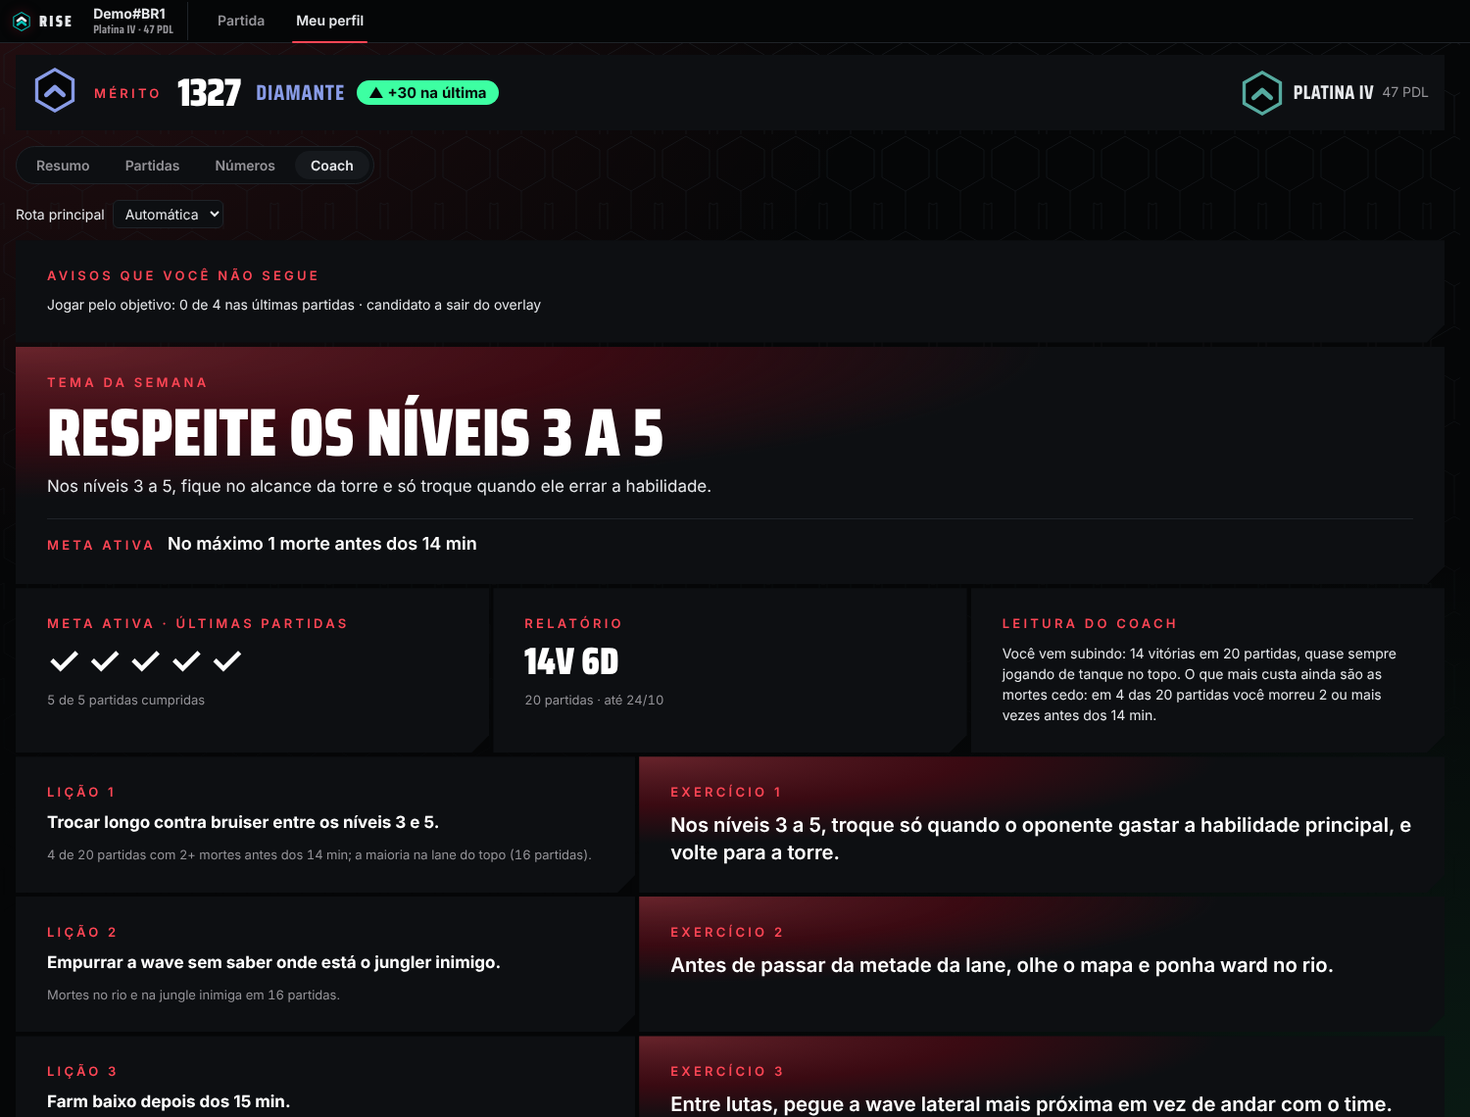
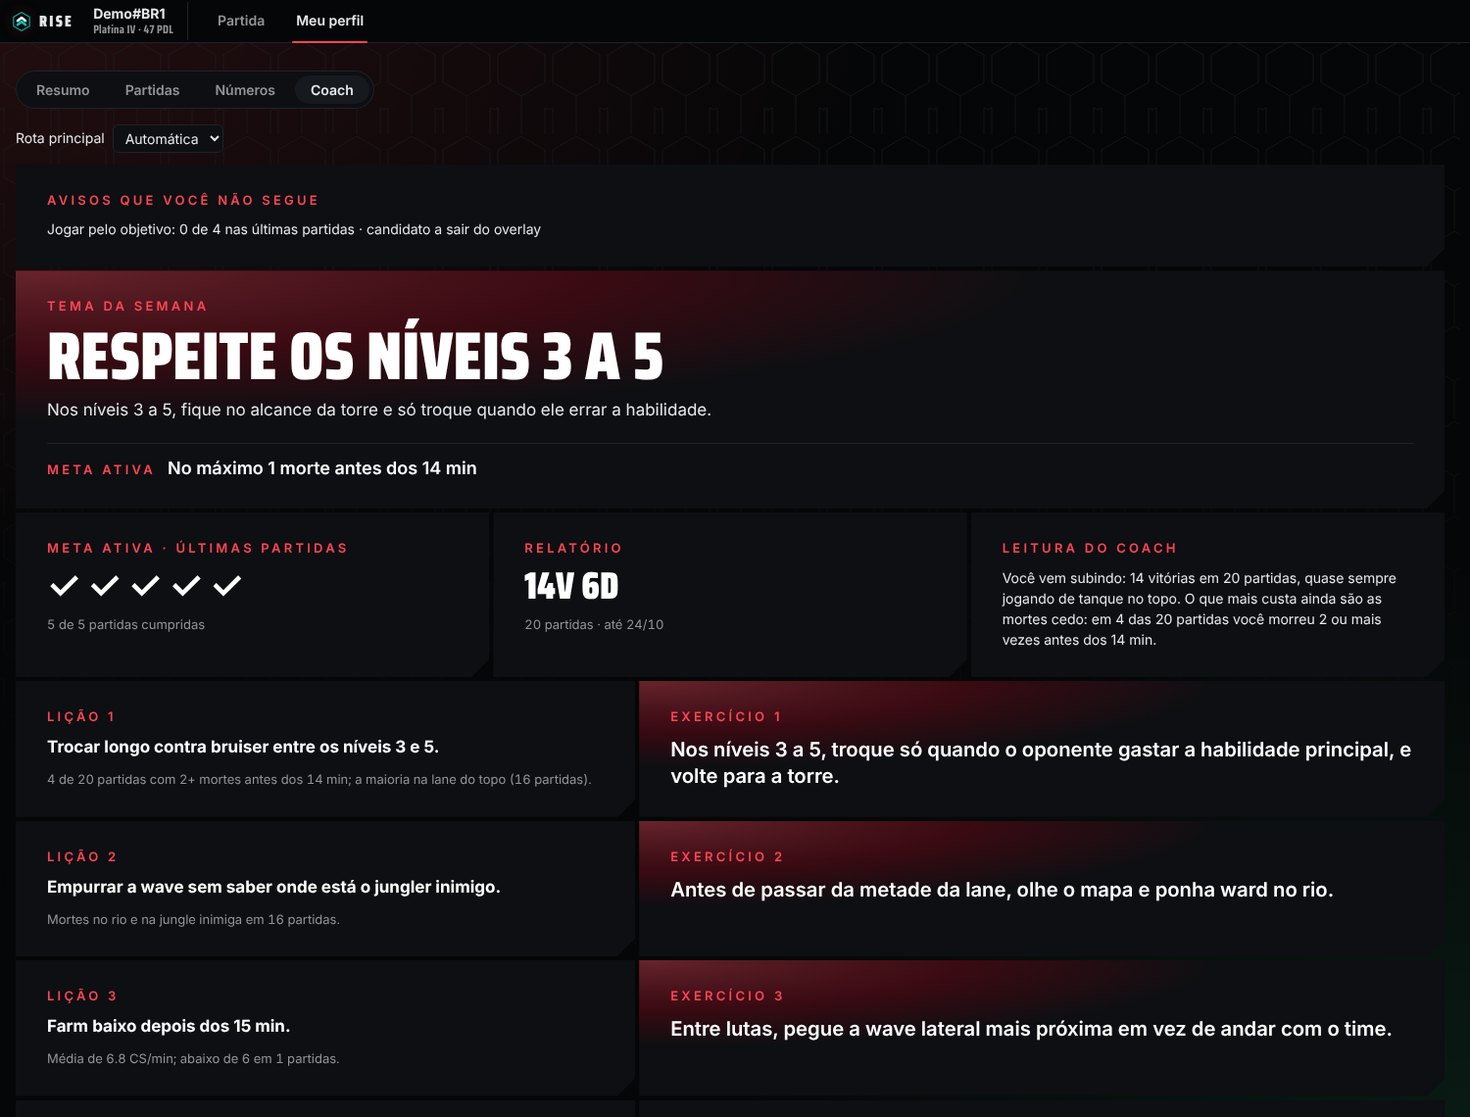
Página no formato pedido pela Riot: fluxo do usuário, Termos e Privacidade, APIs declaradas
- aviso de não endosso visível no topo e no rodapé (texto exato da política)
- terms.html e privacy.html, ligados no menu e no rodapé
- fluxo do usuário e seção de jogo limpo; endpoints do LCU declarados; account-v1 saiu (não é usado)
- prints sem Mérito/MMR (a política proíbe ranking alternativo); Partidas e Resumo fora

Claude-Session: https://claude.ai/code/session_01A9kCdaGhy6rGBCzv5NSGdF

diff --git a/index.html b/index.html
@@ -53,6 +53,10 @@
   .card ul { padding-left: 18px; }
   .card code { color: var(--text); background: var(--panel2); padding: 0 4px; font-size: 13px; }
 
+  nav { display: flex; gap: 20px; justify-content: flex-end; padding-top: 20px; font-size: 14px; }
+  nav a { color: var(--dim); text-decoration: none; } nav a:hover { color: var(--strong); }
+  .prose { max-width: 720px; padding-bottom: 32px; } .prose h2 { margin-top: 32px; } .prose p, .prose li { color: var(--text); }
+  .notice { margin-top: 28px; padding: 14px 18px; background: var(--panel); border-left: 2px solid var(--accent); color: var(--dim); font-size: 14px; max-width: 760px; }
   footer { padding: 32px 0 48px; border-top: 1px solid var(--line); color: var(--dim); font-size: 13px; }
 
   @media (max-width: 760px) {
@@ -63,38 +67,53 @@
 </head>
 <body>
 <div class="wrap">
+<nav><a href="./">Home</a><a href="terms.html">Terms of Service</a><a href="privacy.html">Privacy Policy</a></nav>
 
 <header>
   <div class="brand"><img src="img/rise.svg" alt=""><h1>Rise</h1></div>
-  <p class="tagline">A desktop companion that helps League of Legends players improve, game by game. It rewards <b>playing well</b>, not only winning.</p>
-  <div class="pills"><span class="pill">Champion select</span><span class="pill">In game</span><span class="pill">Post game</span><span class="pill">Personal coach</span></div>
+  <p class="tagline">A desktop companion for League of Legends that helps players <b>prepare each match</b> and <b>learn from their own games</b>.</p>
+  <div class="pills"><span class="pill">Windows desktop app</span><span class="pill">Champion select</span><span class="pill">Post game</span><span class="pill">Personal project, in development</span></div>
+  <p class="notice">Rise isn’t endorsed by Riot Games and doesn’t reflect the views or opinions of Riot Games or anyone officially involved in producing or managing Riot Games properties. Riot Games, and all associated properties are trademarks or registered trademarks of Riot Games, Inc.</p>
 </header>
+
+<section>
+  <span class="lbl">User flow</span>
+  <h2>How it works</h2>
+  <div class="grid">
+    <div class="card"><h3>1. Open with the League client</h3><p>Rise runs on the player’s computer next to the League client and reads only the player’s own session.</p></div>
+    <div class="card"><h3>2. Champion select</h3><p>A plan for the lane with runes, items, spells and skill order, built from aggregated ranked data. Rise writes the suggested rune page and item set to the client; the player can change or ignore them.</p></div>
+    <div class="card"><h3>3. During the game</h3><p>Short reminders from the Live Client Data API, using only what the player can already see in the game: objective timers, the planned next item and the gold still needed.</p></div>
+    <div class="card"><h3>4. After the game</h3><p>A review of the player’s own match (deaths, CS, gold and XP against the lane opponent) and one focus for the next game.</p></div>
+  </div>
+</section>
 
 <section>
   <span class="lbl">Before the game</span>
   <h2>A plan for your lane</h2>
-  <p>Picks, runes, items and summoner spells from aggregated winrates for your elo, role and matchup, applied straight to the client. Hover anything for its full in-game description: stats, effects, cooldown, cost, price and recipe.</p>
+  <p>Suggestions with the reason for each one, so the player decides. Hover any item, rune, stat shard, summoner spell or ability for its full description from Riot’s static data.</p>
   <div class="shots">
-    <figure><img src="img/champ-select.png" alt="Lane plan: matchup, win conditions and plan by level" width="1500" height="1140" loading="lazy"><figcaption><b>Lane plan</b>Matchup, win conditions and what to do at each level.</figcaption></figure>
+    <figure><img src="img/champ-select.png" alt="Lane plan: matchup, win conditions, runes, items and plan by level" width="1500" height="1140" loading="lazy"><figcaption><b>Lane plan</b>Matchup, win conditions and options for each phase of the lane.</figcaption></figure>
     <figure><img src="img/hover-cards.png" alt="Hover card with the full description of the suggested keystone rune" width="1500" height="1140" loading="lazy"><figcaption><b>Hover cards</b>Every item, rune, spell and ability, explained.</figcaption></figure>
   </div>
 </section>
 
 <section>
-  <span class="lbl">In game</span>
-  <h2>What to do right now</h2>
-  <p>A small overlay with the current lane phase and short, timely reminders: objectives about to spawn, enemies missing, and the next item to buy with the gold still missing for it.</p>
+  <span class="lbl">After the game</span>
+  <h2>Learn from your own matches</h2>
+  <p>A review of the match the player just finished, compared with the lane opponent, and a weekly coach note built from the player’s recent games.</p>
+  <div class="shots">
+    <figure><img src="img/post-game.png" alt="Post-game review with the match grade, what went well and what to improve" width="1500" height="1140" loading="lazy"><figcaption><b>Post game</b>What went well, what to fix, and one focus for the next game.</figcaption></figure>
+    <figure><img src="img/coach.png" alt="Coach with the theme of the week, lessons and exercises" width="1500" height="1140" loading="lazy"><figcaption><b>Coach</b>The theme of the week, from the player’s own games.</figcaption></figure>
+  </div>
+  <p class="notice">Screenshots use a fictional demo account (Demo#BR1).</p>
 </section>
 
 <section>
-  <span class="lbl">After the game</span>
-  <h2>Learn from every match</h2>
-  <p>A review of the game (deaths, CS, objectives) with a grade that measures how well you played against your lane opponent, and one focus for the next match. Your profile tracks your form, matches and recurring mistakes over time.</p>
-  <div class="shots">
-    <figure><img src="img/post-game.png" alt="Post-game review with grade, strengths, mistakes and focus for the next game" width="1500" height="1140" loading="lazy"><figcaption><b>Post game</b>Grade, what went well, what to fix.</figcaption></figure>
-    <figure><img src="img/perfil.png" alt="Profile with form, rank and recent performance" width="1500" height="1140" loading="lazy"><figcaption><b>Profile</b>Your form and rank over time.</figcaption></figure>
-    <figure><img src="img/partidas.png" alt="Match list with grade and result of each game" width="1500" height="1140" loading="lazy"><figcaption><b>Matches</b>Every game with its grade and review.</figcaption></figure>
-    <figure><img src="img/coach.png" alt="Coach with the focus of the week and lessons from recent games" width="1500" height="1140" loading="lazy"><figcaption><b>Coach</b>The focus of the week, from your own games.</figcaption></figure>
+  <span class="lbl">Fair play</span>
+  <h2>What Rise doesn’t do</h2>
+  <div class="grid">
+    <div class="card"><h3>No memory reading, no automation</h3><p>Rise never reads or changes game memory and never plays or clicks for the player. It works with Vanguard through Riot’s official local APIs.</p></div>
+    <div class="card"><h3>No hidden information</h3><p>In game, Rise only uses what the Live Client Data API exposes to the player, which is already visible in the game.</p></div>
   </div>
 </section>
 
@@ -103,22 +122,28 @@
   <h2>Riot Games API usage</h2>
   <div class="grid">
     <div class="card"><h3>Riot API</h3><ul>
-      <li><code>league-v4</code>, <code>match-v5</code>: sample ranked solo games from the ladder to compute champion, matchup, item and spell winrates.</li>
-      <li><code>champion-mastery-v4</code>: focus sampling on the champions the user plays.</li>
-      <li><code>account-v1</code>: resolve the user's own Riot ID.</li>
+      <li><code>league-v4</code>, <code>match-v5</code>: sample ranked solo games from the ladder to compute aggregate champion, matchup, item and spell statistics, and read the player’s own matches.</li>
+      <li><code>champion-mastery-v4</code>: focus sampling on the champions the player uses.</li>
+      <li><code>lol-status-v4</code>: check that the API key is valid.</li>
     </ul></div>
-    <div class="card"><h3>Local and static data</h3><ul>
-      <li>The local League client (LCU) is read only for the user's own session.</li>
-      <li>The Live Client Data API (localhost) only during the user's own game.</li>
-      <li>Data Dragon for champions, items, runes and spells; CommunityDragon for stat shard texts. No API key is used for these.</li>
+    <div class="card"><h3>League Client (LCU), own session only</h3><ul>
+      <li><code>lol-gameflow</code>, <code>lol-summoner</code>, <code>lol-lobby</code>, <code>lol-ranked</code>: current phase, the player’s Riot ID and rank.</li>
+      <li><code>lol-champ-select</code>: the player’s pick and the lane matchup.</li>
+      <li><code>lol-perks</code>, <code>lol-item-sets</code>: write the rune page and item set the player chose to apply.</li>
+      <li><code>lol-match-history</code>, <code>lol-champion-mastery</code>, <code>lol-replays</code>: the player’s own games, mastery and replays.</li>
     </ul></div>
-    <div class="card"><h3>Privacy</h3><p>Only aggregated statistics are stored. No personal data of other players is kept or shown. The user's own match history stays on their computer.</p></div>
-    <div class="card"><h3>Screenshots</h3><p>Profile, matches and coach screenshots use a fictional demo account.</p></div>
+    <div class="card"><h3>In game</h3><p>Live Client Data API on localhost, only during the player’s own game.</p></div>
+    <div class="card"><h3>Static data</h3><p>Data Dragon for champions, items, runes, spells and their descriptions; CommunityDragon for stat shard texts. No API key is used for these.</p></div>
   </div>
 </section>
 
-<footer>Rise isn't endorsed by Riot Games and doesn't reflect the views or opinions of Riot Games or anyone officially involved in producing or managing Riot Games properties. Riot Games, and all associated properties are trademarks or registered trademarks of Riot Games, Inc.</footer>
+<section>
+  <span class="lbl">Privacy</span>
+  <h2>Your data stays with you</h2>
+  <p>The player’s match history is stored on their own computer. From other players, only aggregate statistics are kept. Read the <a href="privacy.html">Privacy Policy</a> for details.</p>
+</section>
 
+<footer>Rise isn’t endorsed by Riot Games and doesn’t reflect the views or opinions of Riot Games or anyone officially involved in producing or managing Riot Games properties. Riot Games, and all associated properties are trademarks or registered trademarks of Riot Games, Inc.<br><br><a href="terms.html">Terms of Service</a> · <a href="privacy.html">Privacy Policy</a></footer>
 </div>
 </body>
 </html>

diff --git a/privacy.html b/privacy.html
@@ -1,0 +1,87 @@
+<!doctype html>
+<html lang="en">
+<head>
+<meta charset="utf-8">
+<meta name="viewport" content="width=device-width, initial-scale=1">
+<title>Privacy Policy — Rise</title>
+<meta name="description" content="A desktop companion that helps League of Legends players improve, game by game.">
+<link rel="icon" href="img/rise.svg">
+<link rel="preconnect" href="https://fonts.googleapis.com">
+<link href="https://fonts.googleapis.com/css2?family=Inter:wght@400;600;700&family=Saira+Condensed:wght@700;900&display=swap" rel="stylesheet">
+<style>
+  /* Same palette as the app (DESIGN.md): broadcast black, one red accent, teal logo */
+  :root {
+    --bg: #050607; --panel: #0d0f12; --panel2: #16191d; --line: #1f2328;
+    --text: #e6e8eb; --dim: #949398; --strong: #fff;
+    --accent: #ff4655; --accent-light: #ff7a85; --glow: #3a0a12; --teal: #03bfb5;
+    --cut: polygon(0 0, 100% 0, 100% calc(100% - 16px), calc(100% - 16px) 100%, 0 100%);
+  }
+  * { box-sizing: border-box; }
+  body {
+    margin: 0; background: var(--bg); color: var(--text);
+    font: 16px/1.6 Inter, "Segoe UI", system-ui, sans-serif;
+    background-image: radial-gradient(60% 40% at 80% 0%, var(--glow), transparent 70%);
+    background-repeat: no-repeat;
+  }
+  .wrap { max-width: 1080px; margin: 0 auto; padding: 0 16px; }
+  a { color: var(--accent-light); }
+
+  header { padding: 56px 0 40px; }
+  .brand { display: flex; align-items: center; gap: 14px; }
+  .brand img { width: 56px; height: 56px; }
+  h1 { font: 900 clamp(56px, 10vw, 96px)/.9 "Saira Condensed", "Arial Narrow", sans-serif; letter-spacing: .01em; margin: 0; color: var(--strong); text-transform: uppercase; }
+  .tagline { font-size: clamp(18px, 2.4vw, 22px); color: var(--text); max-width: 640px; margin: 20px 0 0; }
+  .tagline b { color: var(--strong); }
+  .pills { display: flex; flex-wrap: wrap; gap: 8px; margin-top: 24px; }
+  .pill { border: 1px solid var(--line); background: var(--panel); color: var(--dim); border-radius: 99px; padding: 4px 14px; font-size: 14px; }
+
+  .lbl { display: block; font-size: 12px; font-weight: 600; letter-spacing: .3em; text-transform: uppercase; color: var(--accent); }
+  h2 { font: 700 clamp(28px, 4vw, 36px)/1.1 "Saira Condensed", "Arial Narrow", sans-serif; text-transform: uppercase; color: var(--strong); margin: 6px 0 12px; }
+  section { padding: 40px 0; border-top: 1px solid var(--line); }
+  section > p { color: var(--dim); max-width: 680px; margin: 0 0 24px; }
+
+  .shots { display: grid; grid-template-columns: repeat(2, 1fr); gap: 20px; }
+  figure { margin: 0; background: var(--panel); clip-path: var(--cut); }
+  figure img { display: block; width: 100%; height: auto; }
+  figcaption { padding: 12px 16px 16px; color: var(--dim); font-size: 14px; }
+  figcaption b { color: var(--strong); display: block; font-size: 15px; }
+
+  .grid { display: grid; grid-template-columns: repeat(2, 1fr); gap: 16px; }
+  .card { background: var(--panel); padding: 20px 24px; clip-path: var(--cut); border-top: 2px solid var(--accent); }
+  .card h3 { margin: 0 0 6px; font-size: 16px; color: var(--strong); }
+  .card p, .card ul { margin: 0; color: var(--dim); font-size: 15px; }
+  .card ul { padding-left: 18px; }
+  .card code { color: var(--text); background: var(--panel2); padding: 0 4px; font-size: 13px; }
+
+  nav { display: flex; gap: 20px; justify-content: flex-end; padding-top: 20px; font-size: 14px; }
+  nav a { color: var(--dim); text-decoration: none; } nav a:hover { color: var(--strong); }
+  .prose { max-width: 720px; padding-bottom: 32px; } .prose h2 { margin-top: 32px; } .prose p, .prose li { color: var(--text); }
+  .notice { margin-top: 28px; padding: 14px 18px; background: var(--panel); border-left: 2px solid var(--accent); color: var(--dim); font-size: 14px; max-width: 760px; }
+  footer { padding: 32px 0 48px; border-top: 1px solid var(--line); color: var(--dim); font-size: 13px; }
+
+  @media (max-width: 760px) {
+    .shots, .grid { grid-template-columns: 1fr; }
+    header { padding-top: 32px; }
+  }
+</style>
+</head>
+<body>
+<div class="wrap">
+<nav><a href="./">Home</a><a href="terms.html">Terms of Service</a><a href="privacy.html">Privacy Policy</a></nav>
+
+<div class="prose">
+<header><span class="lbl">Rise</span><h1 style="font-size:56px">Privacy Policy</h1><p class="tagline" style="font-size:16px;color:var(--dim)">Last updated: October 25, 2026</p></header>
+<h2>What Rise reads</h2><ul>
+<li>From the League client on your computer: your Riot ID, rank, champion select, rune pages, item sets, match history and replays, only for your own session.</li>
+<li>From the Live Client Data API, during your own game: the game state the client exposes to you.</li>
+<li>From the Riot API: ranked games sampled from the ladder, used only to compute aggregate statistics (win rates by champion, matchup, item and spell), and your own matches.</li></ul>
+<h2>Where it is stored</h2><p>Everything is stored on your own computer, in the Rise folder. Rise has no server and no account. Deleting the folder deletes the data.</p>
+<h2>Other players</h2><p>Rise keeps only aggregate statistics from sampled games. It doesn’t build profiles of other players, doesn’t publish anyone’s match history, and never tries to identify players the game keeps anonymous.</p>
+<h2>AI providers</h2><p>To write plans and reviews, Rise sends game data (champions, items, runes, the timeline of your match and your notes) to an AI provider: Anthropic Claude, and optionally Groq, Google Gemini or Mistral as fallbacks if configured. These requests follow each provider’s own privacy policy. You can keep your personal notes out of fallback providers in the settings.</p>
+<h2>Cookies and tracking</h2><p>Rise and this website use no cookies, analytics or trackers. This website loads its fonts from Google Fonts.</p>
+<h2>Contact</h2><p>Questions or removal requests: open an issue at <a href="https://github.com/lucaskarsten/rise-lol/issues">github.com/lucaskarsten/rise-lol</a>.</p>
+</div>
+<footer>Rise isn’t endorsed by Riot Games and doesn’t reflect the views or opinions of Riot Games or anyone officially involved in producing or managing Riot Games properties. Riot Games, and all associated properties are trademarks or registered trademarks of Riot Games, Inc.<br><br><a href="terms.html">Terms of Service</a> · <a href="privacy.html">Privacy Policy</a></footer>
+</div>
+</body>
+</html>

diff --git a/terms.html b/terms.html
@@ -1,0 +1,89 @@
+<!doctype html>
+<html lang="en">
+<head>
+<meta charset="utf-8">
+<meta name="viewport" content="width=device-width, initial-scale=1">
+<title>Terms of Service — Rise</title>
+<meta name="description" content="A desktop companion that helps League of Legends players improve, game by game.">
+<link rel="icon" href="img/rise.svg">
+<link rel="preconnect" href="https://fonts.googleapis.com">
+<link href="https://fonts.googleapis.com/css2?family=Inter:wght@400;600;700&family=Saira+Condensed:wght@700;900&display=swap" rel="stylesheet">
+<style>
+  /* Same palette as the app (DESIGN.md): broadcast black, one red accent, teal logo */
+  :root {
+    --bg: #050607; --panel: #0d0f12; --panel2: #16191d; --line: #1f2328;
+    --text: #e6e8eb; --dim: #949398; --strong: #fff;
+    --accent: #ff4655; --accent-light: #ff7a85; --glow: #3a0a12; --teal: #03bfb5;
+    --cut: polygon(0 0, 100% 0, 100% calc(100% - 16px), calc(100% - 16px) 100%, 0 100%);
+  }
+  * { box-sizing: border-box; }
+  body {
+    margin: 0; background: var(--bg); color: var(--text);
+    font: 16px/1.6 Inter, "Segoe UI", system-ui, sans-serif;
+    background-image: radial-gradient(60% 40% at 80% 0%, var(--glow), transparent 70%);
+    background-repeat: no-repeat;
+  }
+  .wrap { max-width: 1080px; margin: 0 auto; padding: 0 16px; }
+  a { color: var(--accent-light); }
+
+  header { padding: 56px 0 40px; }
+  .brand { display: flex; align-items: center; gap: 14px; }
+  .brand img { width: 56px; height: 56px; }
+  h1 { font: 900 clamp(56px, 10vw, 96px)/.9 "Saira Condensed", "Arial Narrow", sans-serif; letter-spacing: .01em; margin: 0; color: var(--strong); text-transform: uppercase; }
+  .tagline { font-size: clamp(18px, 2.4vw, 22px); color: var(--text); max-width: 640px; margin: 20px 0 0; }
+  .tagline b { color: var(--strong); }
+  .pills { display: flex; flex-wrap: wrap; gap: 8px; margin-top: 24px; }
+  .pill { border: 1px solid var(--line); background: var(--panel); color: var(--dim); border-radius: 99px; padding: 4px 14px; font-size: 14px; }
+
+  .lbl { display: block; font-size: 12px; font-weight: 600; letter-spacing: .3em; text-transform: uppercase; color: var(--accent); }
+  h2 { font: 700 clamp(28px, 4vw, 36px)/1.1 "Saira Condensed", "Arial Narrow", sans-serif; text-transform: uppercase; color: var(--strong); margin: 6px 0 12px; }
+  section { padding: 40px 0; border-top: 1px solid var(--line); }
+  section > p { color: var(--dim); max-width: 680px; margin: 0 0 24px; }
+
+  .shots { display: grid; grid-template-columns: repeat(2, 1fr); gap: 20px; }
+  figure { margin: 0; background: var(--panel); clip-path: var(--cut); }
+  figure img { display: block; width: 100%; height: auto; }
+  figcaption { padding: 12px 16px 16px; color: var(--dim); font-size: 14px; }
+  figcaption b { color: var(--strong); display: block; font-size: 15px; }
+
+  .grid { display: grid; grid-template-columns: repeat(2, 1fr); gap: 16px; }
+  .card { background: var(--panel); padding: 20px 24px; clip-path: var(--cut); border-top: 2px solid var(--accent); }
+  .card h3 { margin: 0 0 6px; font-size: 16px; color: var(--strong); }
+  .card p, .card ul { margin: 0; color: var(--dim); font-size: 15px; }
+  .card ul { padding-left: 18px; }
+  .card code { color: var(--text); background: var(--panel2); padding: 0 4px; font-size: 13px; }
+
+  nav { display: flex; gap: 20px; justify-content: flex-end; padding-top: 20px; font-size: 14px; }
+  nav a { color: var(--dim); text-decoration: none; } nav a:hover { color: var(--strong); }
+  .prose { max-width: 720px; padding-bottom: 32px; } .prose h2 { margin-top: 32px; } .prose p, .prose li { color: var(--text); }
+  .notice { margin-top: 28px; padding: 14px 18px; background: var(--panel); border-left: 2px solid var(--accent); color: var(--dim); font-size: 14px; max-width: 760px; }
+  footer { padding: 32px 0 48px; border-top: 1px solid var(--line); color: var(--dim); font-size: 13px; }
+
+  @media (max-width: 760px) {
+    .shots, .grid { grid-template-columns: 1fr; }
+    header { padding-top: 32px; }
+  }
+</style>
+</head>
+<body>
+<div class="wrap">
+<nav><a href="./">Home</a><a href="terms.html">Terms of Service</a><a href="privacy.html">Privacy Policy</a></nav>
+
+<div class="prose">
+<header><span class="lbl">Rise</span><h1 style="font-size:56px">Terms of Service</h1><p class="tagline" style="font-size:16px;color:var(--dim)">Last updated: October 25, 2026</p></header>
+<h2>1. What Rise is</h2><p>Rise is a free desktop companion for League of Legends. It shows suggestions before a game, short reminders during a game and a review after a game, using the player’s own data and aggregate statistics.</p>
+<h2>2. Use of the app</h2><ul>
+<li>Rise is provided free of charge, as is, without warranties of any kind.</li>
+<li>Suggestions are informational. The player makes every decision in the game.</li>
+<li>Use Rise only with your own Riot account and in line with Riot Games’ <a href="https://www.riotgames.com/en/terms-of-service">Terms of Service</a>.</li>
+<li>Don’t use Rise to cheat, automate gameplay, or harass or identify other players.</li></ul>
+<h2>3. Riot Games</h2><p>Rise is an independent project and is not affiliated with Riot Games. Game data comes from Riot’s official APIs and static data. Riot Games may limit or end access to its APIs at any time, which may stop parts of Rise from working.</p>
+<h2>4. AI-generated content</h2><p>Plans and reviews are written by AI models from game data. They can be wrong. Use them as a starting point, not as rules.</p>
+<h2>5. Liability</h2><p>To the extent allowed by law, the author of Rise is not liable for any loss arising from its use, including lost games or account actions.</p>
+<h2>6. Changes</h2><p>These terms may change as Rise evolves. The date at the top shows the latest version.</p>
+<h2>7. Contact</h2><p>Questions: open an issue at <a href="https://github.com/lucaskarsten/rise-lol/issues">github.com/lucaskarsten/rise-lol</a>.</p>
+</div>
+<footer>Rise isn’t endorsed by Riot Games and doesn’t reflect the views or opinions of Riot Games or anyone officially involved in producing or managing Riot Games properties. Riot Games, and all associated properties are trademarks or registered trademarks of Riot Games, Inc.<br><br><a href="terms.html">Terms of Service</a> · <a href="privacy.html">Privacy Policy</a></footer>
+</div>
+</body>
+</html>
